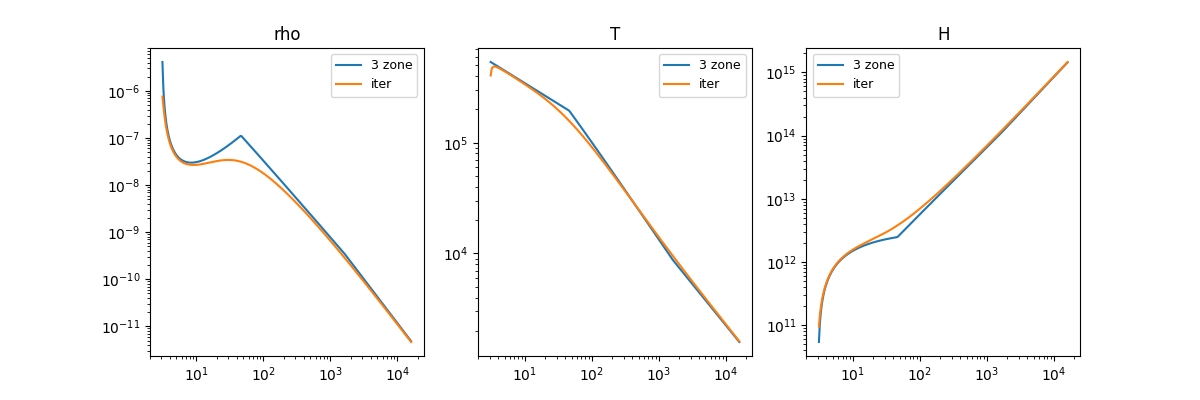
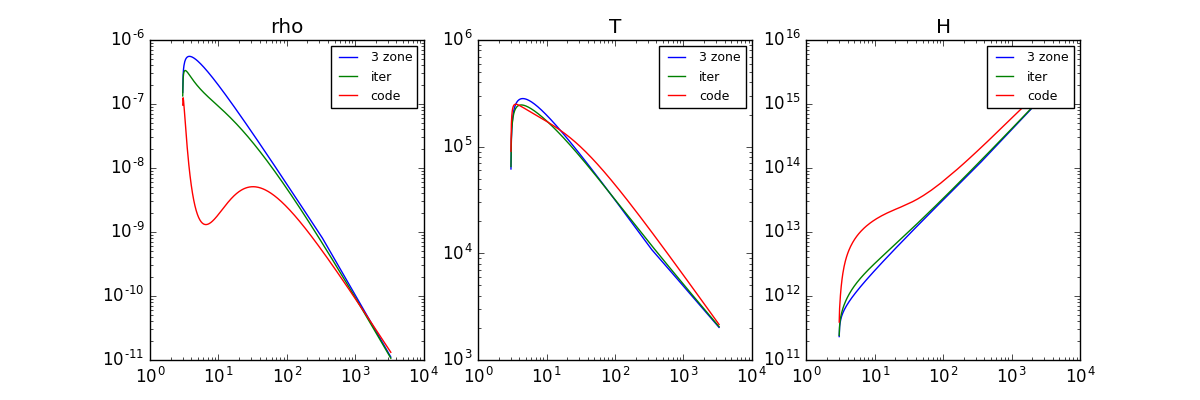
porownanie z dyskiem alfa

diff --git a/sketches/170626/plot-radial-1.py b/sketches/170626/plot-radial-1.py
@@ -7,17 +7,20 @@ fig, axes = plt.subplots(1, 3, figsize = (12,4))
 
 ax = axes[0]
 ax.plot(d[:,1], d[:,2], label = '3 zone')
-ax.plot(d[:,1], d[:,3], label = 'iter')
+ax.plot(d[:,1], d[:,5], label = 'iter')
+ax.plot(d[:,1], d[:,8], label = 'code')
 ax.set_title('rho')
 
 ax = axes[1]
-ax.plot(d[:,1], d[:,4], label = '3 zone')
-ax.plot(d[:,1], d[:,5], label = 'iter')
+ax.plot(d[:,1], d[:,3], label = '3 zone')
+ax.plot(d[:,1], d[:,6], label = 'iter')
+ax.plot(d[:,1], d[:,9], label = 'code')
 ax.set_title('T')
 
 ax = axes[2]
-ax.plot(d[:,1], d[:,6], label = '3 zone')
+ax.plot(d[:,1], d[:,4], label = '3 zone')
 ax.plot(d[:,1], d[:,7], label = 'iter')
+ax.plot(d[:,1], d[:,10], label = 'code')
 ax.set_title('H')
 
 for ax in axes:
